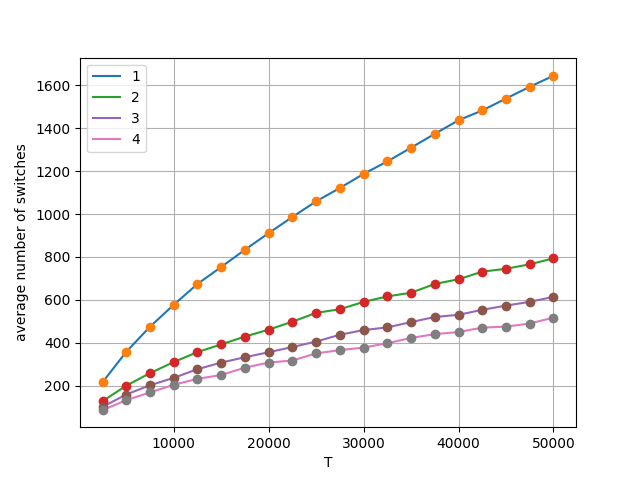
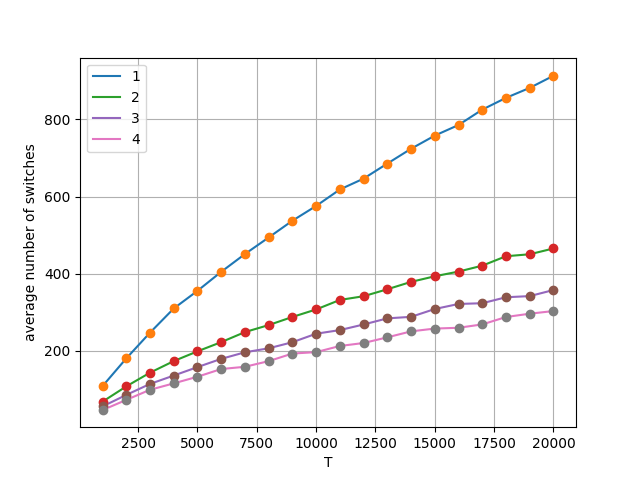
commit on 8/25

diff --git a/main.py b/main.py
@@ -8,39 +8,39 @@ import generateArms as gA
 if __name__ == '__main__':
     K_list = np.array([2])
     varyingK = True if len(K_list) > 1 else False
-    T_list = np.arange(1, 21) * 2500
-    numArmDists = 50
+    T_list = np.arange(1, 21) * 1000
+    numArmDists = 25
     alpha = 0
     startSim = 0
-    endSim = 5
+    endSim = 10
     pw = 1 / 2
 
     # armInstances = gA.generateArms(K_list, T_list, numArmDists, alpha)
     armInstances = gA.generateMultipleArms(K_list, T_list, numArmDists, pw)
 
     start = time.time()
-    naiveUCB1 = fA.naiveUCB1(armInstances, startSim, endSim, K_list, T_list)
+    naiveUCB1 = fA.naiveUCB1(armInstances, startSim, endSim, K_list, T_list, start)
+    # ADAETC = fA.ADAETC(armInstances, startSim, endSim, K_list, T_list)
     # ETC = fA.ETC(armInstances, startSim, endSim, K_list, T_list)
-    ADAETC = fA.ADAETC(armInstances, startSim, endSim, K_list, T_list)
     # NADAETC = fA.NADAETC(armInstances, startSim, endSim, K_list, T_list)
     # UCB1_stopping = fA.UCB1_stopping(armInstances, startSim, endSim, K_list, T_list)
     print("took " + str(time.time() - start) + " seconds; arms within " + str(pw) + " power of respective T values")
     print("Larger the ratio of difference between cumulative rewards to the total")
     print("cumulative rewards, better the performance of max objective")
 
-    df_ADAETC = pd.DataFrame({'T': T_list, 'Regret': ADAETC['regret'], 'Standard Error': ADAETC['standardError'],
-                              'Ratio of pulls': ADAETC['pullRatios']})
-    df_ADAETC.to_csv('ADAETC.csv', index=False)
-    df_naiveUCB1 = pd.DataFrame({'T': T_list, 'Regret': naiveUCB1['regret'],
-                                 'Standard Error': naiveUCB1['standardError'],
-                                 'Ratio of pulls': naiveUCB1['pullRatios']})
-    for i in range(4):
-        colName = 'Number of Switches - ' + str(i + 1)
-        df_naiveUCB1[colName] = naiveUCB1['numSwitches'][i]
-    for i in range(4):
-        colName = 'StErr of Switches - ' + str(i + 1)
-        df_naiveUCB1[colName] = naiveUCB1['numSwitchErrors'][i]
-    df_naiveUCB1.to_csv('naiveUCB1.csv', index=False)
+    # df_ADAETC = pd.DataFrame({'T': T_list, 'Regret': ADAETC['regret'], 'Standard Error': ADAETC['standardError'],
+    #                           'Ratio of pulls': ADAETC['pullRatios']})
+    # df_ADAETC.to_csv('ADAETC.csv', index=False)
+    # df_naiveUCB1 = pd.DataFrame({'T': T_list, 'Regret': naiveUCB1['regret'],
+    #                              'Standard Error': naiveUCB1['standardError'],
+    #                              'Ratio of pulls': naiveUCB1['pullRatios']})
+    # for i in range(4):
+    #     colName = 'Number of Switches - ' + str(i + 1)
+    #     df_naiveUCB1[colName] = naiveUCB1['numSwitches'][i]
+    # for i in range(4):
+    #     colName = 'StErr of Switches - ' + str(i + 1)
+    #     df_naiveUCB1[colName] = naiveUCB1['numSwitchErrors'][i]
+    # df_naiveUCB1.to_csv('naiveUCB1.csv', index=False)
 
     plt.rc('axes', axisbelow=True)
     plt.grid()
@@ -50,5 +50,5 @@ if __name__ == '__main__':
     plt.legend(loc="upper left")
     plt.ylabel('average number of switches')
     plt.xlabel('T')
-    plt.savefig('numberOfSwitches.png')
+    # plt.savefig('numberOfSwitches.png')
     plt.show()

diff --git a/fixedArms.py b/fixedArms.py
@@ -1,7 +1,7 @@
 import numpy as np
+import time
 
-
-def naiveUCB1(armInstances, startSim, endSim, K_list, T_list):
+def naiveUCB1(armInstances, startSim, endSim, K_list, T_list, stime):
     # fix K and vary T values
     K = K_list[0]
     numT = len(T_list)
@@ -16,6 +16,7 @@ def naiveUCB1(armInstances, startSim, endSim, K_list, T_list):
     # subOptRewardsTot = np.zeros(numT)
     for t in range(numT):
         T = T_list[t]
+        print("T ", T, ", duration ", time.time() - stime)
         regret_sim = np.zeros(numInstance)
         reward_sim = np.zeros(numInstance)
         subOptRewards_sim = np.zeros(numInstance)
@@ -30,6 +31,7 @@ def naiveUCB1(armInstances, startSim, endSim, K_list, T_list):
 
                 empirical_mean = np.zeros(K)
                 pulls = np.zeros(K)
+                pulls_later = np.zeros(K)
                 prev_pull = 0
                 index = np.zeros(K)
                 cumulative_reward = np.zeros(K)
@@ -48,6 +50,8 @@ def naiveUCB1(armInstances, startSim, endSim, K_list, T_list):
                         rew = np.random.binomial(1, arms[pull], 1)
                         cumulative_reward[pull] += rew
                         pulls[pull] += 1
+                        if i > T * 0.75:
+                            pulls_later[pull] += 1
                         empirical_mean[pull] = cumulative_reward[pull] / pulls[pull]
                         index[pull] = empirical_mean[pull] + 2 * np.sqrt(np.log(T) / pulls[pull])
                         if i <= T / 4:
@@ -63,7 +67,7 @@ def naiveUCB1(armInstances, startSim, endSim, K_list, T_list):
                 reward_sim[a] += sum(cumulative_reward)
                 regret_sim[a] += max(arms) * T - max(cumulative_reward)
 
-                subOptRewards_sim[a] += (np.sort(pulls)[-1] / max(1, np.sort(pulls)[-2]))
+                subOptRewards_sim[a] += (np.sort(pulls_later)[-1] / max(1, np.sort(pulls_later)[-2]))
                 # subOptRewardsTot_sim[a] += sum(cumulative_reward) / (max(arms) * T)
             regret_sim[a] /= (endSim - startSim)
             reward_sim[a] /= (endSim - startSim)
@@ -90,7 +94,7 @@ def naiveUCB1(armInstances, startSim, endSim, K_list, T_list):
     print(reward)
     print("Standard errors", end=" ")
     print(stError)
-    print("Ratio of pulls spent on the most pulled and the second most pulled")
+    print("Ratio of pulls spent on the most pulled and the second most pulled in the last quarter horizon")
     print(subOptRewards)
     print("Number of switches between arms")
     for i in range(4):
@@ -275,7 +279,7 @@ def ADAETC(armInstances, startSim, endSim, K_list, T_list):
     print(reward)
     print("Standard errors", end=" ")
     print(stError)
-    print("Ratio of pulls spent on the most pulled and the second most pulled")
+    print("Ratio of pulls spent on the most pulled and the second most pulled in the last quarter horizon")
     print(subOptRewards)
     # print("Ratio of total cumulative rewards to the benchmark")
     # print(subOptRewardsTot)
